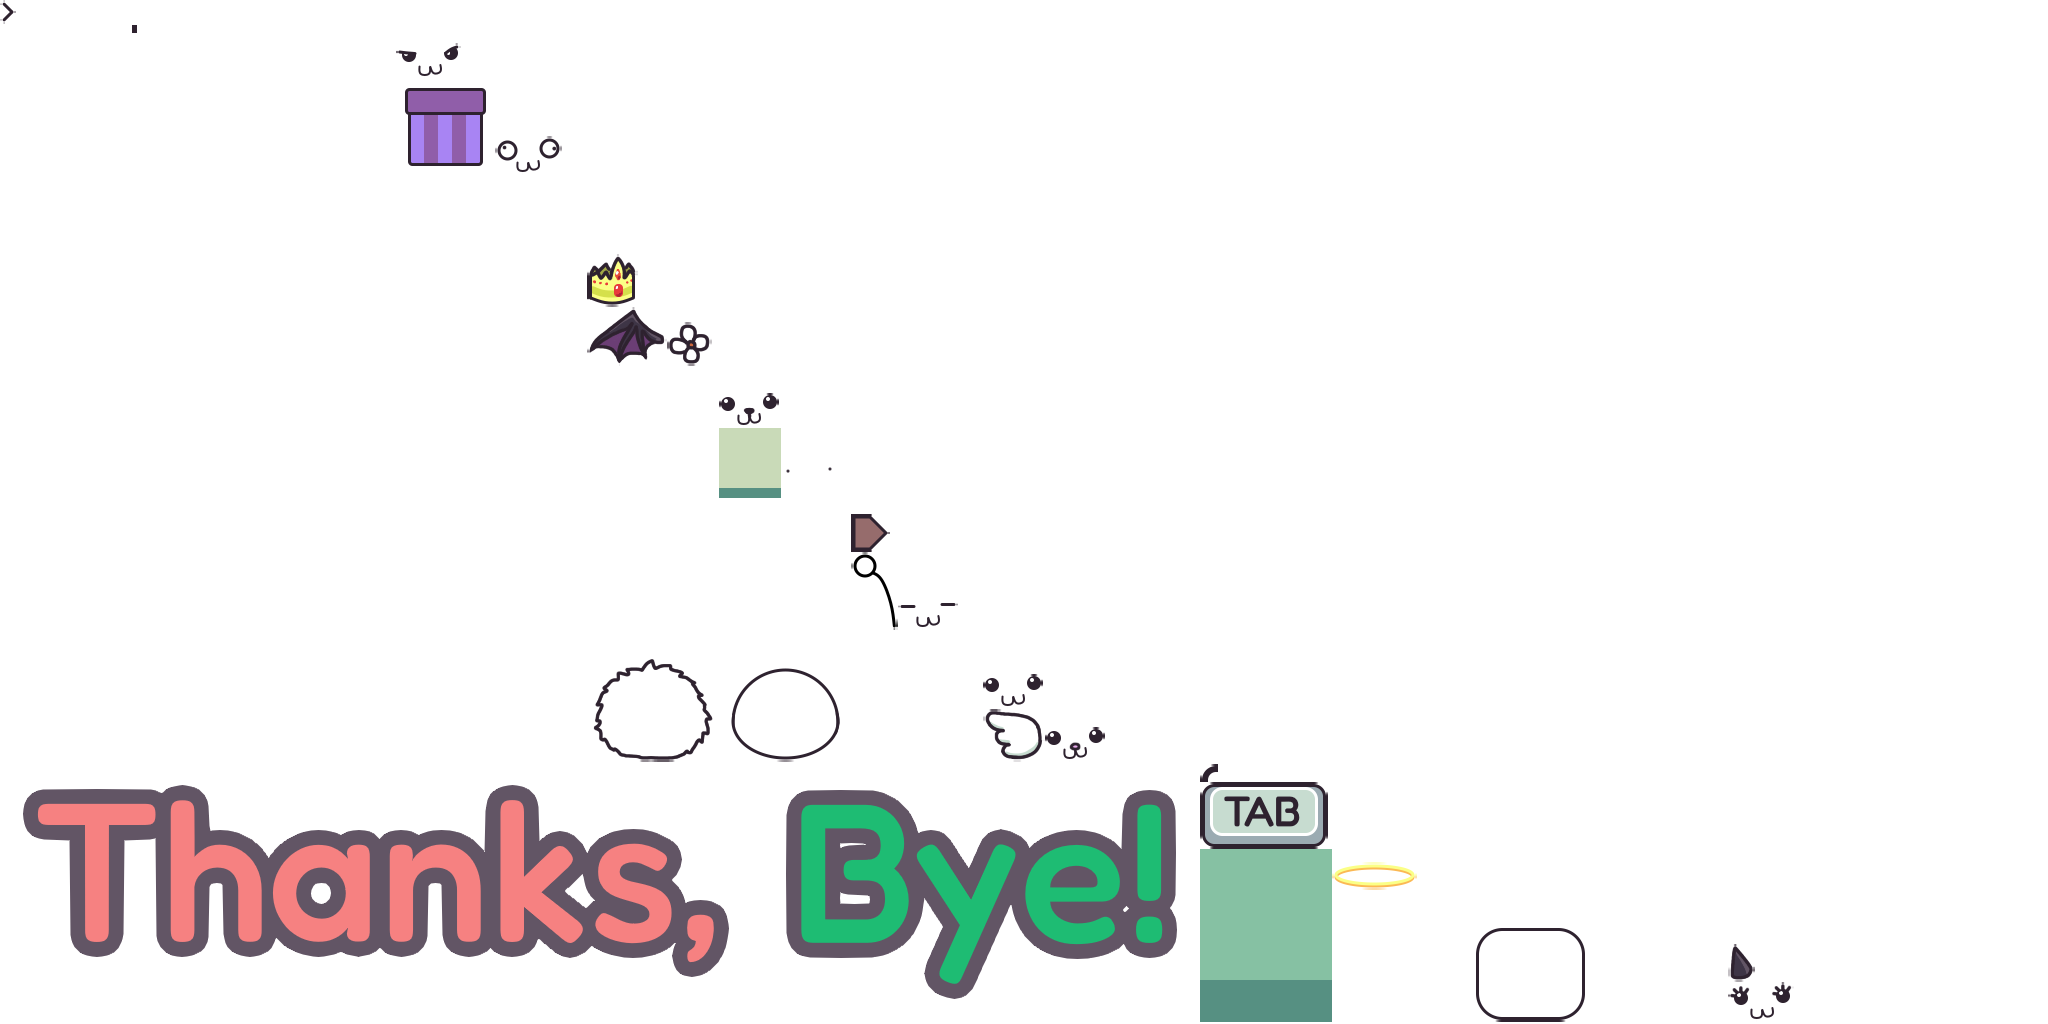
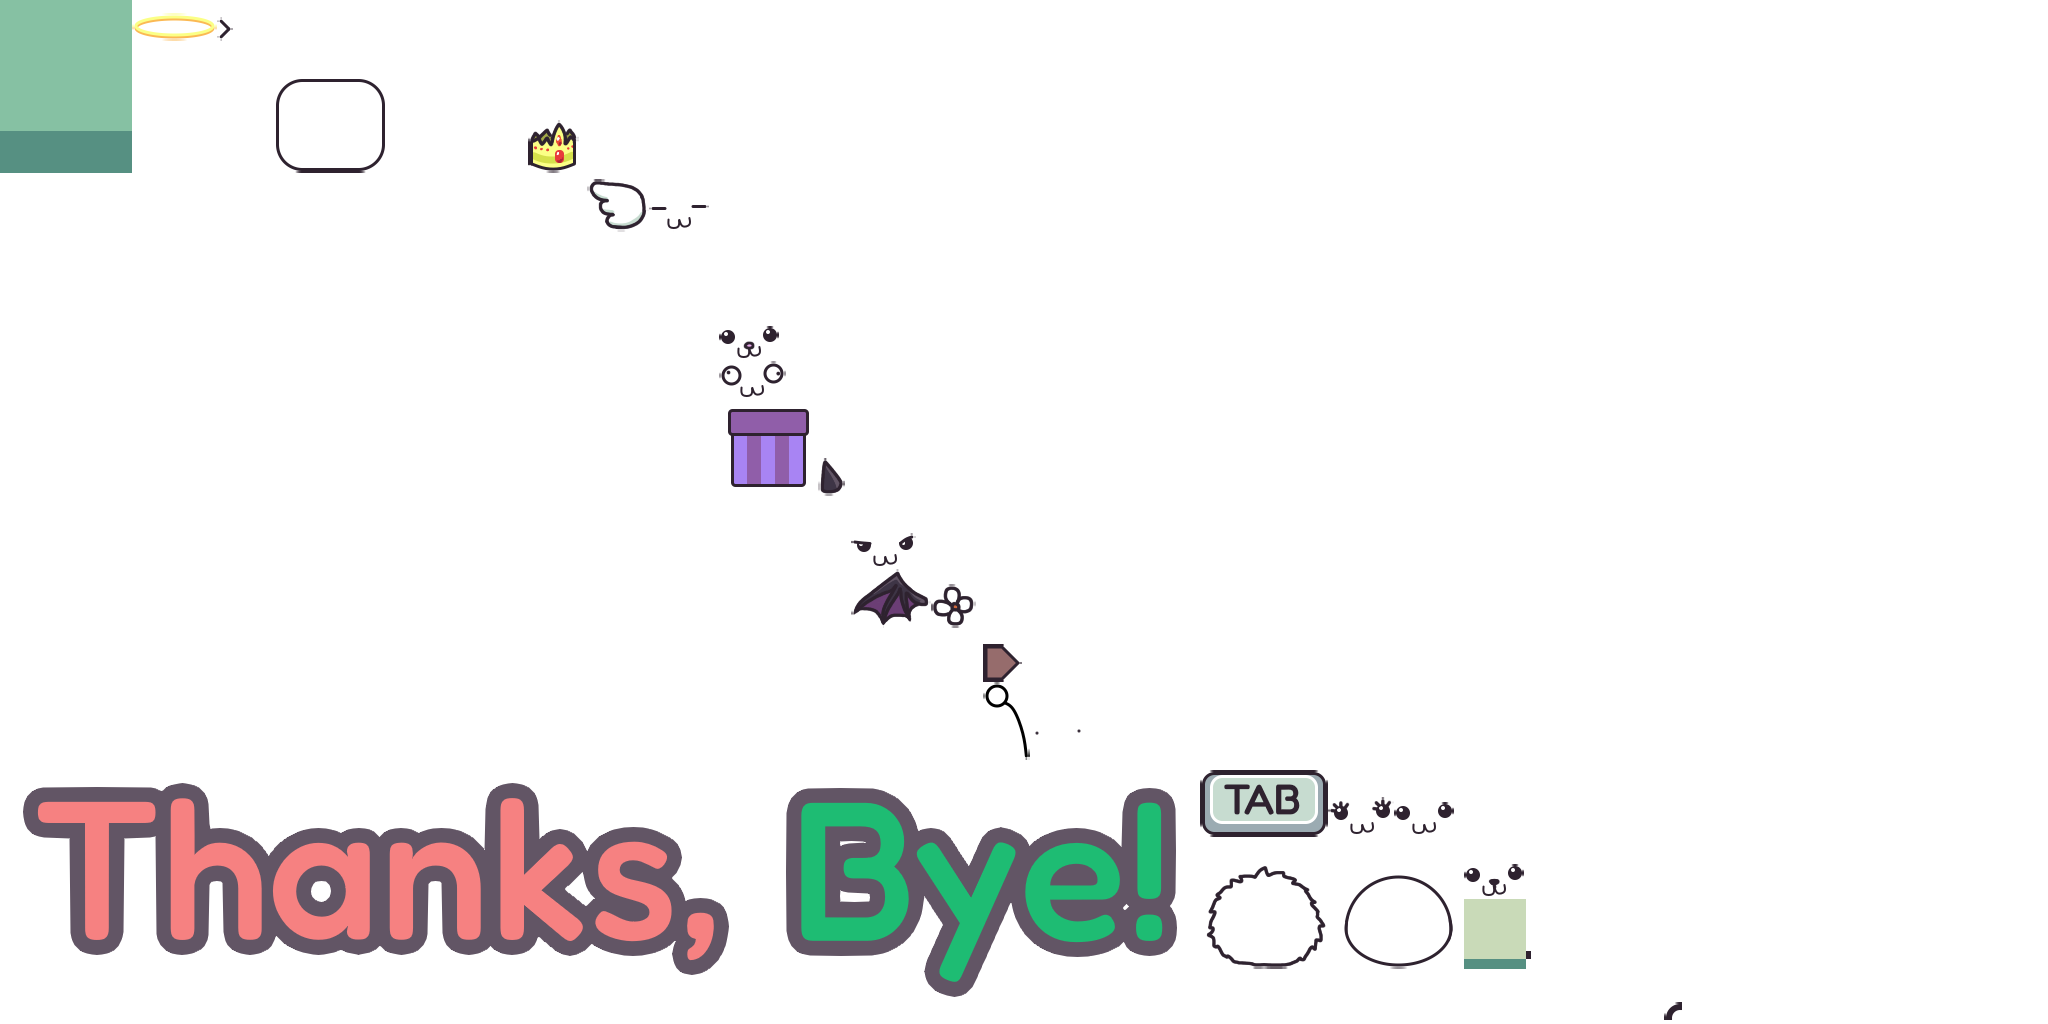
cleanups, title screen render bug

diff --git a/core/src/main/java/com/distraction/cjspring26/screens/TitleScreen.java b/core/src/main/java/com/distraction/cjspring26/screens/TitleScreen.java
@@ -25,7 +25,8 @@ public class TitleScreen extends Screen {
     private final TextureRegion title;
     private float time = -TITLE_TIME;
 
-    private final BitmapFont font;
+    private final TextureRegion pressEnter;
+
     private final BitmapFont smallFont;
 
     private final TextureRegion circle;
@@ -39,6 +40,7 @@ public class TitleScreen extends Screen {
     public TitleScreen(Context context) {
         super(context);
         title = context.getImage("title");
+        pressEnter = context.getImage("pressenter");
 
         in = new Transition(context, Transition.Type.FLASH_IN, 1f, () -> ignoreInput = false);
         ignoreInput = true;
@@ -47,8 +49,6 @@ public class TitleScreen extends Screen {
             context.sm.replace(new PlayScreen(context));
         });
 
-        font = context.getDialogFont();
-        font.setColor(Color.WHITE);
         smallFont = context.getDescriptionFont();
         smallFont.setColor(Constants.BLACK);
 
@@ -133,7 +133,7 @@ public class TitleScreen extends Screen {
 
         if (time > ENTER_TIME && !exiting) {
             if (time % 2 > 1) {
-                font.draw(sb, "Press Enter", Constants.WIDTH2 - 165, 300);
+                Utils.drawCentered(sb, pressEnter, Constants.WIDTH2, 260);
             }
             smallFont.draw(sb, "Mike S", 10, 40);
             smallFont.draw(sb, "version 1.0", 10, 20);

diff --git a/core/src/main/java/com/distraction/cjspring26/audio/AudioHandler.java b/core/src/main/java/com/distraction/cjspring26/audio/AudioHandler.java
@@ -3,7 +3,6 @@ package com.distraction.cjspring26.audio;
 import com.badlogic.gdx.Gdx;
 import com.badlogic.gdx.audio.Music;
 import com.badlogic.gdx.audio.Sound;
-import com.badlogic.gdx.files.FileHandle;
 
 import java.util.HashMap;
 import java.util.Map;
@@ -83,7 +82,7 @@ public class AudioHandler {
         for (Map.Entry<String, Sound> entry : sounds.entrySet()) {
             if (entry.getKey().equals(key)) {
                 if (cut) entry.getValue().stop();
-                entry.getValue().play(volume, pitch, 1f);
+                entry.getValue().play(volume, pitch, 0f);
             }
         }
     }

diff --git a/core/src/main/java/com/distraction/cjspring26/tile/TileMap.java b/core/src/main/java/com/distraction/cjspring26/tile/TileMap.java
@@ -1,12 +1,10 @@
 package com.distraction.cjspring26.tile;
 
-import com.badlogic.gdx.Gdx;
 import com.badlogic.gdx.graphics.Color;
 import com.badlogic.gdx.graphics.OrthographicCamera;
 import com.badlogic.gdx.graphics.g2d.SpriteBatch;
 import com.badlogic.gdx.math.GridPoint2;
 import com.badlogic.gdx.math.MathUtils;
-import com.badlogic.gdx.math.Vector3;
 import com.distraction.cjspring26.Context;
 import com.distraction.cjspring26.Direction;
 import com.distraction.cjspring26.screens.CollectScreen;

diff --git a/core/src/main/java/com/distraction/cjspring26/Context.java b/core/src/main/java/com/distraction/cjspring26/Context.java
@@ -9,9 +9,6 @@ import com.badlogic.gdx.graphics.g2d.TextureRegion;
 import com.distraction.cjspring26.audio.AudioHandler;
 import com.distraction.cjspring26.screens.ScreenManager;
 
-import java.util.ArrayList;
-import java.util.List;
-
 public class Context {
 
     private static final String ATLAS = "cjspring26.atlas";

diff --git a/core/src/main/java/com/distraction/cjspring26/screens/scenes/PlayScene.java b/core/src/main/java/com/distraction/cjspring26/screens/scenes/PlayScene.java
@@ -1,6 +1,5 @@
 package com.distraction.cjspring26.screens.scenes;
 
-import com.badlogic.gdx.Gdx;
 import com.badlogic.gdx.Input;
 import com.badlogic.gdx.graphics.Color;
 import com.badlogic.gdx.graphics.g2d.SpriteBatch;

diff --git a/core/src/main/java/com/distraction/cjspring26/Direction.java b/core/src/main/java/com/distraction/cjspring26/Direction.java
@@ -6,7 +6,7 @@ public enum Direction {
     LEFT(180f),
     RIGHT(0f);
 
-    public float deg;
+    public final float deg;
 
     Direction(float deg) {
         this.deg = deg;
